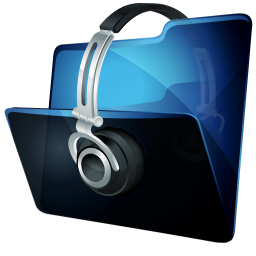
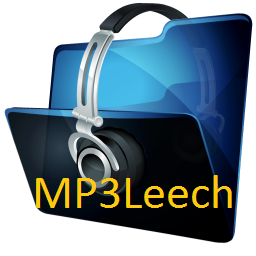
Update

Changed region(s): [[0.125, 0.6875, 0.9062, 0.8125]]

diff --git a/index.html b/index.html
@@ -7,10 +7,11 @@
 	<link rel="stylesheet" type="text/css" href="http://dev.jtsage.com/cdn/simpledialog/latest/jquery.mobile.simpledialog.min.css" />
 	<script src="http://code.jquery.com/jquery-1.8.2.min.js"></script>
 	<script src="http://code.jquery.com/mobile/1.2.0/jquery.mobile-1.2.0.min.js"></script>
+	<link href="jquery.loadmask.css" rel="stylesheet" type="text/css" />
+<script type="text/javascript" src="jquery.loadmask.min.js"></script>
 	<script type="text/javascript" src="phonegap.js"></script > 
 	<script type="text/javascript" src="cordova.js"></script > 
 	<script type="text/javascript" src="http://dev.jtsage.com/cdn/simpledialog/latest/jquery.mobile.simpledialog.min.js"></script>
-	<script src="http://youtube.com/iframe_api"></script>
 	<script src="jqSearch.js"></script>
 	<script type="text/javascript">
 	jQTubeUtil.init({
@@ -40,16 +41,33 @@
 		.ui-loader{
 		    z-index: 1501;
 		}
+		
 	</style>
 	
 </head> 
 <body onload="pageLoad();"> 
 
 
+<div data-role="dialog">
+	<div data-role="header" data-theme="a" class="ui-corner-top">
+		<h1>Agreement</h1>
+	</div>
+	<div data-role="content" data-theme="d" class="ui-corner-bottom ui-content">
+		<h3 class="ui-title">Terms and Usage</h3>
+		By proceeding you agree to use this service while not violating any copywrite laws.<hr/>
+		<span>If you see:<a href="#" data-theme="e" data-role="button" data-icon="plus" data-iconpos="notext">Plus</a> Click to download.<span>
+		<button onclick="popupClose(true);" data-theme="b">Sounds good</button>       
+		<button onclick="popupClose(false);" data-theme="d">Cancel</button>       
+	</div>
+</div>
+	
 <div data-role="page" id="search">
+
+	
+
 	<div data-role="header" data-position="fixed">
 		<a href="#music" data-icon="grid" data-theme="e" class="ui-btn-left">Downloads</a>
-		<h1>uTube Leech</h1>
+		<h1>MP3Leech</h1>
 		<a href="#about" data-icon="gear" data-theme="b" class="ui-btn-right">About</a>
 		<table align="center" width="100%"><tr>
 		<td width="85%" ><input type="search" name="search" data-theme="b" id="searchField" placeholder="Enter keywords here..." value="" /></td>
@@ -57,12 +75,12 @@
 		</tr></table>
 	</div><!-- /header -->
 	<div data-role="content">
-	
+		<a id='lnkDialog' href="#dialog" data-rel="dialog" data-transition="pop" style='display:none;'></a>
 		<ul id="videoList" data-role="listview" data-split-icon="plus" data-split-theme="a">
 			
 		</ul>
 	</div><!-- /content -->
-	<div data-role="footer" data-position="fixed"> 
+	<div data-role="footer"> 
 	<h4>Compuscope Consulting</h4> 
 	</div> 
 </div><!-- /page -->
@@ -82,13 +100,13 @@
 	
 	
 	<div data-role="footer" data-position="fixed"> 
-	<center><span id="songStatus">Stopped: [No Song Selected]<span><br/>
+	<center><span style="white-space:nowrap;" id="songStatus">Stopped: [No Song Selected]<span><br/>
 	%<input type="range" name="slider-3" disabled="true" id="songSlider" value="0" min="0" max="100" data-theme="a" data-track-theme="b" />
 	</center>
 	<table align="center" width="100%"><tr>
-	<td width="10%" align="left"><button align="left" data-theme="e" onclick="prevSong()" href="#">Prev</button></td>
-	<td width="10%" align="left"><button align="left" data-theme="e" id="playPauseButton" onclick="resumeAudio()" href="#">Play</button></td>
-	<td width="10%" align="left"><button align="left" data-theme="e" onclick="nextSong()" href="#">Next</button></td>
+	<td width="10%"><button align="left" data-theme="e" onclick="prevSong()" href="#">Prev</button></td>
+	<td width="10%"><button align="left" data-theme="e" id="playPauseButton" onclick="resumeAudio()" href="#">Play</button></td>
+	<td width="10%"><button align="left" data-theme="e" onclick="nextSong()" href="#">Next</button></td>
 	</tr></table>
 	</div> 
 </div>

diff --git a/index.js b/index.js
@@ -28,7 +28,6 @@ function dirReady(entry) {
 function showModal(str){
   $("body").append('<div class="modalWindow"/>');
   $.mobile.showPageLoadingMsg("b", str);
-  setTimeout('hideModal()', 2000);
 }
 
 function hideModal(){
@@ -40,11 +39,12 @@ function hideModal(){
 downloadFile = function(atr, url, fname){
 
     
-    
+    try{
     var fileTransfer = new FileTransfer();
 
     var filePath = window.appRootDir.fullPath + "/" + fname + ".mp3";
     showModal("Starting Download ["+filePath+"]");
+    
     
     fileTransfer.download(
         url,
@@ -58,6 +58,10 @@ downloadFile = function(atr, url, fname){
 		alert('An error occurd while trying to download: ' + fname + ".mp3");
         }
     );
+    }catch(ex){
+	hideModal();
+	alert("Error: " + ex);
+    }
 }
 
 
@@ -93,13 +97,20 @@ function pageLoad(){
 	//player.loadVideoById(videoId:String, startSeconds:Number, suggestedQuality:String)
 	//player.stopVideo()
 	
-	search();
-	
+	$("#lnkDialog").click();
 }
 
+function popupClose(agree){
+
+	$.mobile.changePage('#search'); 
+	if (agree){
+		search();
+	}else{
+		alert("You should quit this application...");
+	}
+}
 
 function download(atr, videoID){
-
 
 	$.mobile.allowCrossDomainPages = true;
 	//queue converstion
@@ -168,6 +179,7 @@ function stopAudio() {
 	if (my_media){
 		playing=false;
 		my_media.stop();
+		$("#songSlider").attr('disabled','true');
 		$('#songSlider').val(0);
 		$("#songStatus").html("<p>Stopped: [No Song Selected]</p>");
 		my_media.release();
@@ -243,6 +255,13 @@ function playAudio(src) {
 		mediaTimer = setInterval(function() {
 			// get media position
 			if (my_media){
+				
+				$("#songSlider").live("change", function() {
+					var songVal = $(this).val();
+					my_media.seekTo(songVal/100 * my_media.getDuration());
+				});
+				
+				
 				my_media.getCurrentPosition(
 					// success callback
 					function(position) {
@@ -262,9 +281,9 @@ function playAudio(src) {
 	    }
             // Play audio
 	    playing=true;
-	    alert('test');
 	    $("#playPauseButton").html("Pause");
 	    $("#playPauseButton").button('refresh');
+	    $("#songSlider").removeAttr('disabled');
             my_media.play();
 	    $("#songStatus").html("<p>Playing: ["+src+"]</p>");
 }
@@ -309,7 +328,7 @@ function watchVideo(videoID){
 
 function search(){
 
-	 showModal("Searching for videos...");
+	showModal("Searching for videos...");
 	 
 	var q=$("#searchField").val();
 	jQTubeUtil.search(q, function(response){
@@ -326,7 +345,7 @@ function search(){
 		console.log(video);
 		
 		html += ('<li data-icon="plus" data-videoid="'+video.videoId+'" ><a onclick="watchVideo(\''+video.videoId+'\');"class="watchVideo" href="#"><img style"vertical-align: middle;" width="120px" height="90px" src="'+video.thumbs[1].url+'" /><h2>'+video.title+'</h2><p><i>'+video.viewCount+' views</i><br/>'+video.description+'</p></a>'+
-			 '<a class="dlLink" href="#" data-role="button" data-rel="dialog" data-transition="pop">Download MP3</a>'+
+			 '<a style="display:none" class="dlLink" href="#" data-theme="e" data-role="button" data-rel="dialog" data-transition="pop">Download MP3</a>'+
 			 '</li>');
 	}
 	$("#videoList").html(html);

diff --git a/jquery.loadmask.min.js b/jquery.loadmask.min.js
@@ -1,0 +1,10 @@
+/**
+ * Copyright (c) 2009 Sergiy Kovalchuk (serg472@gmail.com)
+ * 
+ * Dual licensed under the MIT (http://www.opensource.org/licenses/mit-license.php)
+ * and GPL (http://www.opensource.org/licenses/gpl-license.php) licenses.
+ *  
+ * Following code is based on Element.mask() implementation from ExtJS framework (http://extjs.com/)
+ *
+ */
+(function(a){a.fn.mask=function(c,b){a(this).each(function(){if(b!==undefined&&b>0){var d=a(this);d.data("_mask_timeout",setTimeout(function(){a.maskElement(d,c)},b))}else{a.maskElement(a(this),c)}})};a.fn.unmask=function(){a(this).each(function(){a.unmaskElement(a(this))})};a.fn.isMasked=function(){return this.hasClass("masked")};a.maskElement=function(d,c){if(d.data("_mask_timeout")!==undefined){clearTimeout(d.data("_mask_timeout"));d.removeData("_mask_timeout")}if(d.isMasked()){a.unmaskElement(d)}if(d.css("position")=="static"){d.addClass("masked-relative")}d.addClass("masked");var e=a('<div class="loadmask"></div>');if(navigator.userAgent.toLowerCase().indexOf("msie")>-1){e.height(d.height()+parseInt(d.css("padding-top"))+parseInt(d.css("padding-bottom")));e.width(d.width()+parseInt(d.css("padding-left"))+parseInt(d.css("padding-right")))}if(navigator.userAgent.toLowerCase().indexOf("msie 6")>-1){d.find("select").addClass("masked-hidden")}d.append(e);if(c!==undefined){var b=a('<div class="loadmask-msg" style="display:none;"></div>');b.append("<div>"+c+"</div>");d.append(b);b.css("top",Math.round(d.height()/2-(b.height()-parseInt(b.css("padding-top"))-parseInt(b.css("padding-bottom")))/2)+"px");b.css("left",Math.round(d.width()/2-(b.width()-parseInt(b.css("padding-left"))-parseInt(b.css("padding-right")))/2)+"px");b.show()}};a.unmaskElement=function(b){if(b.data("_mask_timeout")!==undefined){clearTimeout(b.data("_mask_timeout"));b.removeData("_mask_timeout")}b.find(".loadmask-msg,.loadmask").remove();b.removeClass("masked");b.removeClass("masked-relative");b.find("select").removeClass("masked-hidden")}})(jQuery);

diff --git a/jquery.loadmask.css b/jquery.loadmask.css
@@ -1,0 +1,40 @@
+.loadmask {
+    z-index: 100;
+    position: absolute;
+    top:0;
+    left:0;
+    -moz-opacity: 0.5;
+    opacity: .50;
+    filter: alpha(opacity=50);
+    background-color: #CCC;
+    width: 100%;
+    height: 100%;
+    zoom: 1;
+}
+.loadmask-msg {
+    z-index: 20001;
+    position: absolute;
+    top: 0;
+    left: 0;
+    border:1px solid #6593cf;
+    background: #c3daf9;
+    padding:2px;
+}
+.loadmask-msg div {
+    padding:5px 10px 5px 25px;
+    background: #fbfbfb url('../images/loading.gif') no-repeat 5px 5px;
+    line-height: 16px;
+	border:1px solid #a3bad9;
+    color:#222;
+    font:normal 11px tahoma, arial, helvetica, sans-serif;
+    cursor:wait;
+}
+.masked {
+    overflow: hidden !important;
+}
+.masked-relative {
+    position: relative !important;
+}
+.masked-hidden {
+    visibility: hidden !important;
+}
